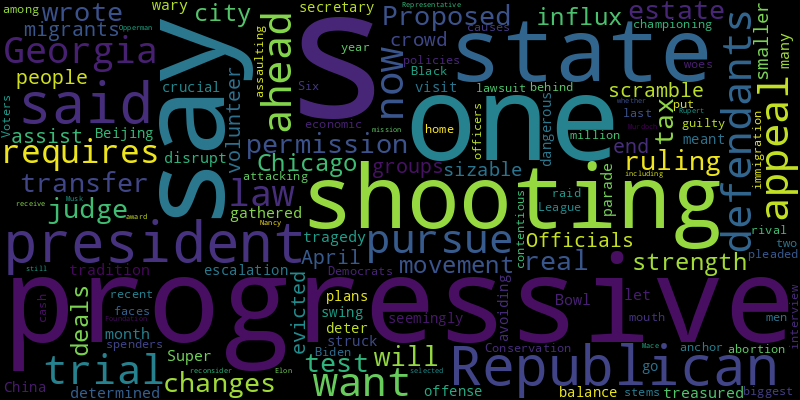
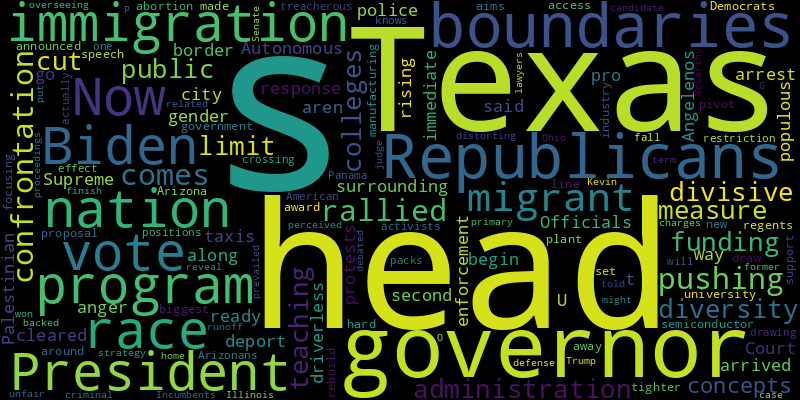
chore(bot): 🟩 auto commit

diff --git a/README.md b/README.md
@@ -2,41 +2,41 @@
 Auto RSS New York Times and Generate Word Cloud
 
 ## New York Times Global News
-* Secretary of State Antony J. Blinken plans to visit Saudi Arabia and Egypt this week as mediators in Qatar discuss a possible pause in fighting.
+* A day after agreeing to President Biden’s request to send officials to Washington to discuss Rafah, the Israeli leader said there was no other option but to send forces into the crowded city.
+* As Hong Kong’s leaders embrace China’s top-down political culture, many believe the city’s dynamism and vitality are slipping away.
+* Despite American doubts, Ukrainians say that defending places with little strategic value is worth the cost in casualties and weapons, because the attacking Russians pay an even higher price.
+* A beacon for “anti-woke” conservatives abroad, Prime Minister Viktor Orban keeps his grip at home by doling out cash, critics say. Behold the treeless “treetop canopy walkway.”
+* The government’s contentious Rwanda policy, which has been championed by the prime minister, has prompted a rebellion in Britain’s unelected second chamber.
+* Gender-based discrimination is central to the women-only art installation, in Australia, but one visitor claims it is also illegal.
 * In a country especially vulnerable to climate change, a drought has displaced entire villages and left millions of children malnourished.
-* A continuing protest in the town of Roscrea symbolizes a surge in hostility toward migrants in Ireland that is fueled by a housing crisis and far-right influencers.
-* Senegal was seen as an outpost of democracy in a coup-plagued region until its president tried to cancel the election last month. He failed, and it’s going ahead next Sunday.
-* A day after a rubber-stamp presidential election, President Vladimir Putin said he would not back down in Russia’s war against Ukraine.
-* Many Russians say they back their president, but it is far less clear what they might do if they were given alternatives.
-* Lawmakers in the West African country voted to advance a bill repealing a 2015 ban. If it passes the final round of voting, Gambia will become the first nation to roll back protections against the practice.
-* The pre-dawn strikes escalated tensions between two countries that have clashed over the recent rise in militant violence on Pakistan’s soil.
-* Many hospitals in Haiti’s capital have been looted by gangs or abandoned by their staffs amid the violence. Some are open, but too dangerous for people in need of care to reach.
-* The authorities said the eruption on Saturday night was the most powerful of a series that started in December.
+* The federal police accused the former president of falsifying his Covid-19 vaccination records.
+* Getty Images said a photo taken by Catherine, Princess of Wales, of Queen Elizabeth II had been “digitally enhanced,” adding to scrutiny over royal communications with the public.
+* The legislation marks another significant erosion of freedom in a former British colony once known for its relative autonomy from Beijing.
 
 ![Global](./global.png)
 ## New York Times United States News
-* Because the defendants want to pursue an appeal now, ahead of any trial, Georgia law requires them to get permission from the judge who wrote the ruling.
-* Proposed changes to the real estate transfer tax will test the strength of Chicago’s progressive movement as the city deals with an influx of migrants.
-* Officials say more than 2,000 people would be evicted by the end of April, as volunteer groups scramble to assist them.
-* A sizable but smaller crowd gathered one month after the Super Bowl parade shooting. Some were wary, but many were determined to not let the tragedy disrupt a treasured tradition.
-* The secretary of state struck a balance seemingly meant to deter China while avoiding a dangerous escalation with Beijing.
-* The president plans to go on offense during his visit to the crucial swing states, championing his economic policies and attacking Republicans on abortion and immigration.
-* Six officers pleaded guilty last year to assaulting two Black men and shooting one in the mouth during a raid on their home.
-* The League of Conservation Voters, among the biggest spenders on progressive causes, said it would put $120 million behind President Biden and Democrats as his Republican rival faces cash woes.
-* The lawsuit stems from the anchor’s recent contentious interview with Representative Nancy Mace.
-* The Opperman Foundation said it would “reconsider its mission” but did not say whether those selected, including Elon Musk and Rupert Murdoch, would still receive the award.
+* The Texas governor has rallied Republicans by pushing the boundaries of what a governor can do when it comes to immigration. Now he’s in a head-to-head confrontation with the Biden administration.
+* The measure would not only cut funding to diversity programs at public colleges, but also limit the teaching of “divisive concepts” surrounding race and gender.
+* There was no immediate response along the border after the U.S. Supreme Court cleared the way for Texas police to arrest and deport migrants. Officials have not said when enforcement would begin.
+* Autonomous taxis have arrived in the nation’s second most populous city. Some Angelenos aren’t ready to go driverless.
+* With anger rising over pro-Palestinian protests, the university’s regents are set to vote on a proposal that would draw tighter boundaries around speech.
+* The award, to be announced by President Biden at a plant in Arizona, is the biggest the government has made under a new program that aims to rebuild the nation’s semiconductor manufacturing industry.
+* Democrats are focusing on their support for abortion access, while Republicans pivot away from hard-line positions. But no one knows what restriction will actually be in effect when Arizonans vote this fall.
+* The treacherous migrant crossing in Panama is drawing packs of American activists who are distorting how immigration is perceived, and debated, at home.
+* A Trump-backed candidate won in the G.O.P. Senate primary in Ohio. Incumbents prevailed in Illinois. And the race to finish Kevin McCarthy’s term heads to a runoff.
+* The former president’s lawyers told the judge overseeing the proceedings it would be unfair to put on a defense now because it might reveal his strategy for the criminal case on related charges.
 
 ![US](./usnews.png)
 ## New York Times Asia News
+* Drawing from his life in rural China, the gay artist known as Xiyadie uses a folk art form to tell his coming out story. His show is coming to the Blindspot Gallery in Hong Kong.
+* The study, based on research featured in a Netflix documentary, fueled debate over a site that is used for Islamic and Hindu rituals.
+* The city created a visa to lure professionals from around the world. Most of the takers were Chinese seeking better jobs, better schools and greater freedom.
+* As Hong Kong’s leaders embrace China’s top-down political culture, many believe the city’s dynamism and vitality are slipping away.
+* Federal prosecutors said the pair tried to sell technology to manufacture batteries for electric cars that belonged to the company.
+* Also, Japan’s interest rate hike and M.L.B.’s season opener.
+* The cache of artifacts was discovered in the attic of a veteran’s home after he died. The items were turned over to the F.B.I., which arranged for their return eight decades after the war.
 * Some firms have already moved staff out of the city since the Chinese government took a heavier hand in 2020.
 * The legislation marks another significant erosion of freedom in a former British colony once known for its relative autonomy from Beijing.
 * The legislation targets “external interference” and the theft of state secrets, with implications for businesses, journalists, civil servants and others.
-* With huge demand to see the baseball superstar play for the Dodgers, M.L.B. teamed up with a Japanese travel agency. Fans began plotting trips.
-* China’s securities regulator fined the developer’s founder, Hui Ka Yan, and banned him from participating in the country’s financial markets for life.
-* The country’s raucous fan culture will be on display when Major League Baseball opens its season in Seoul. Here’s how to cheer and what to eat.
-* Baseball fans in South Korea have embraced the superstar from Japan, despite the longtime rivalry and history between the two countries.
-* In a country especially vulnerable to climate change, a drought has displaced entire villages and left millions of children malnourished.
-* Higher inflation and rising wages suggest that the country’s economy can grow without such aggressive stimulus from the central bank.
-* Also, Gambia moves to overturn a ban on female genital cutting.
 
 ![Asian](./asian.png)
